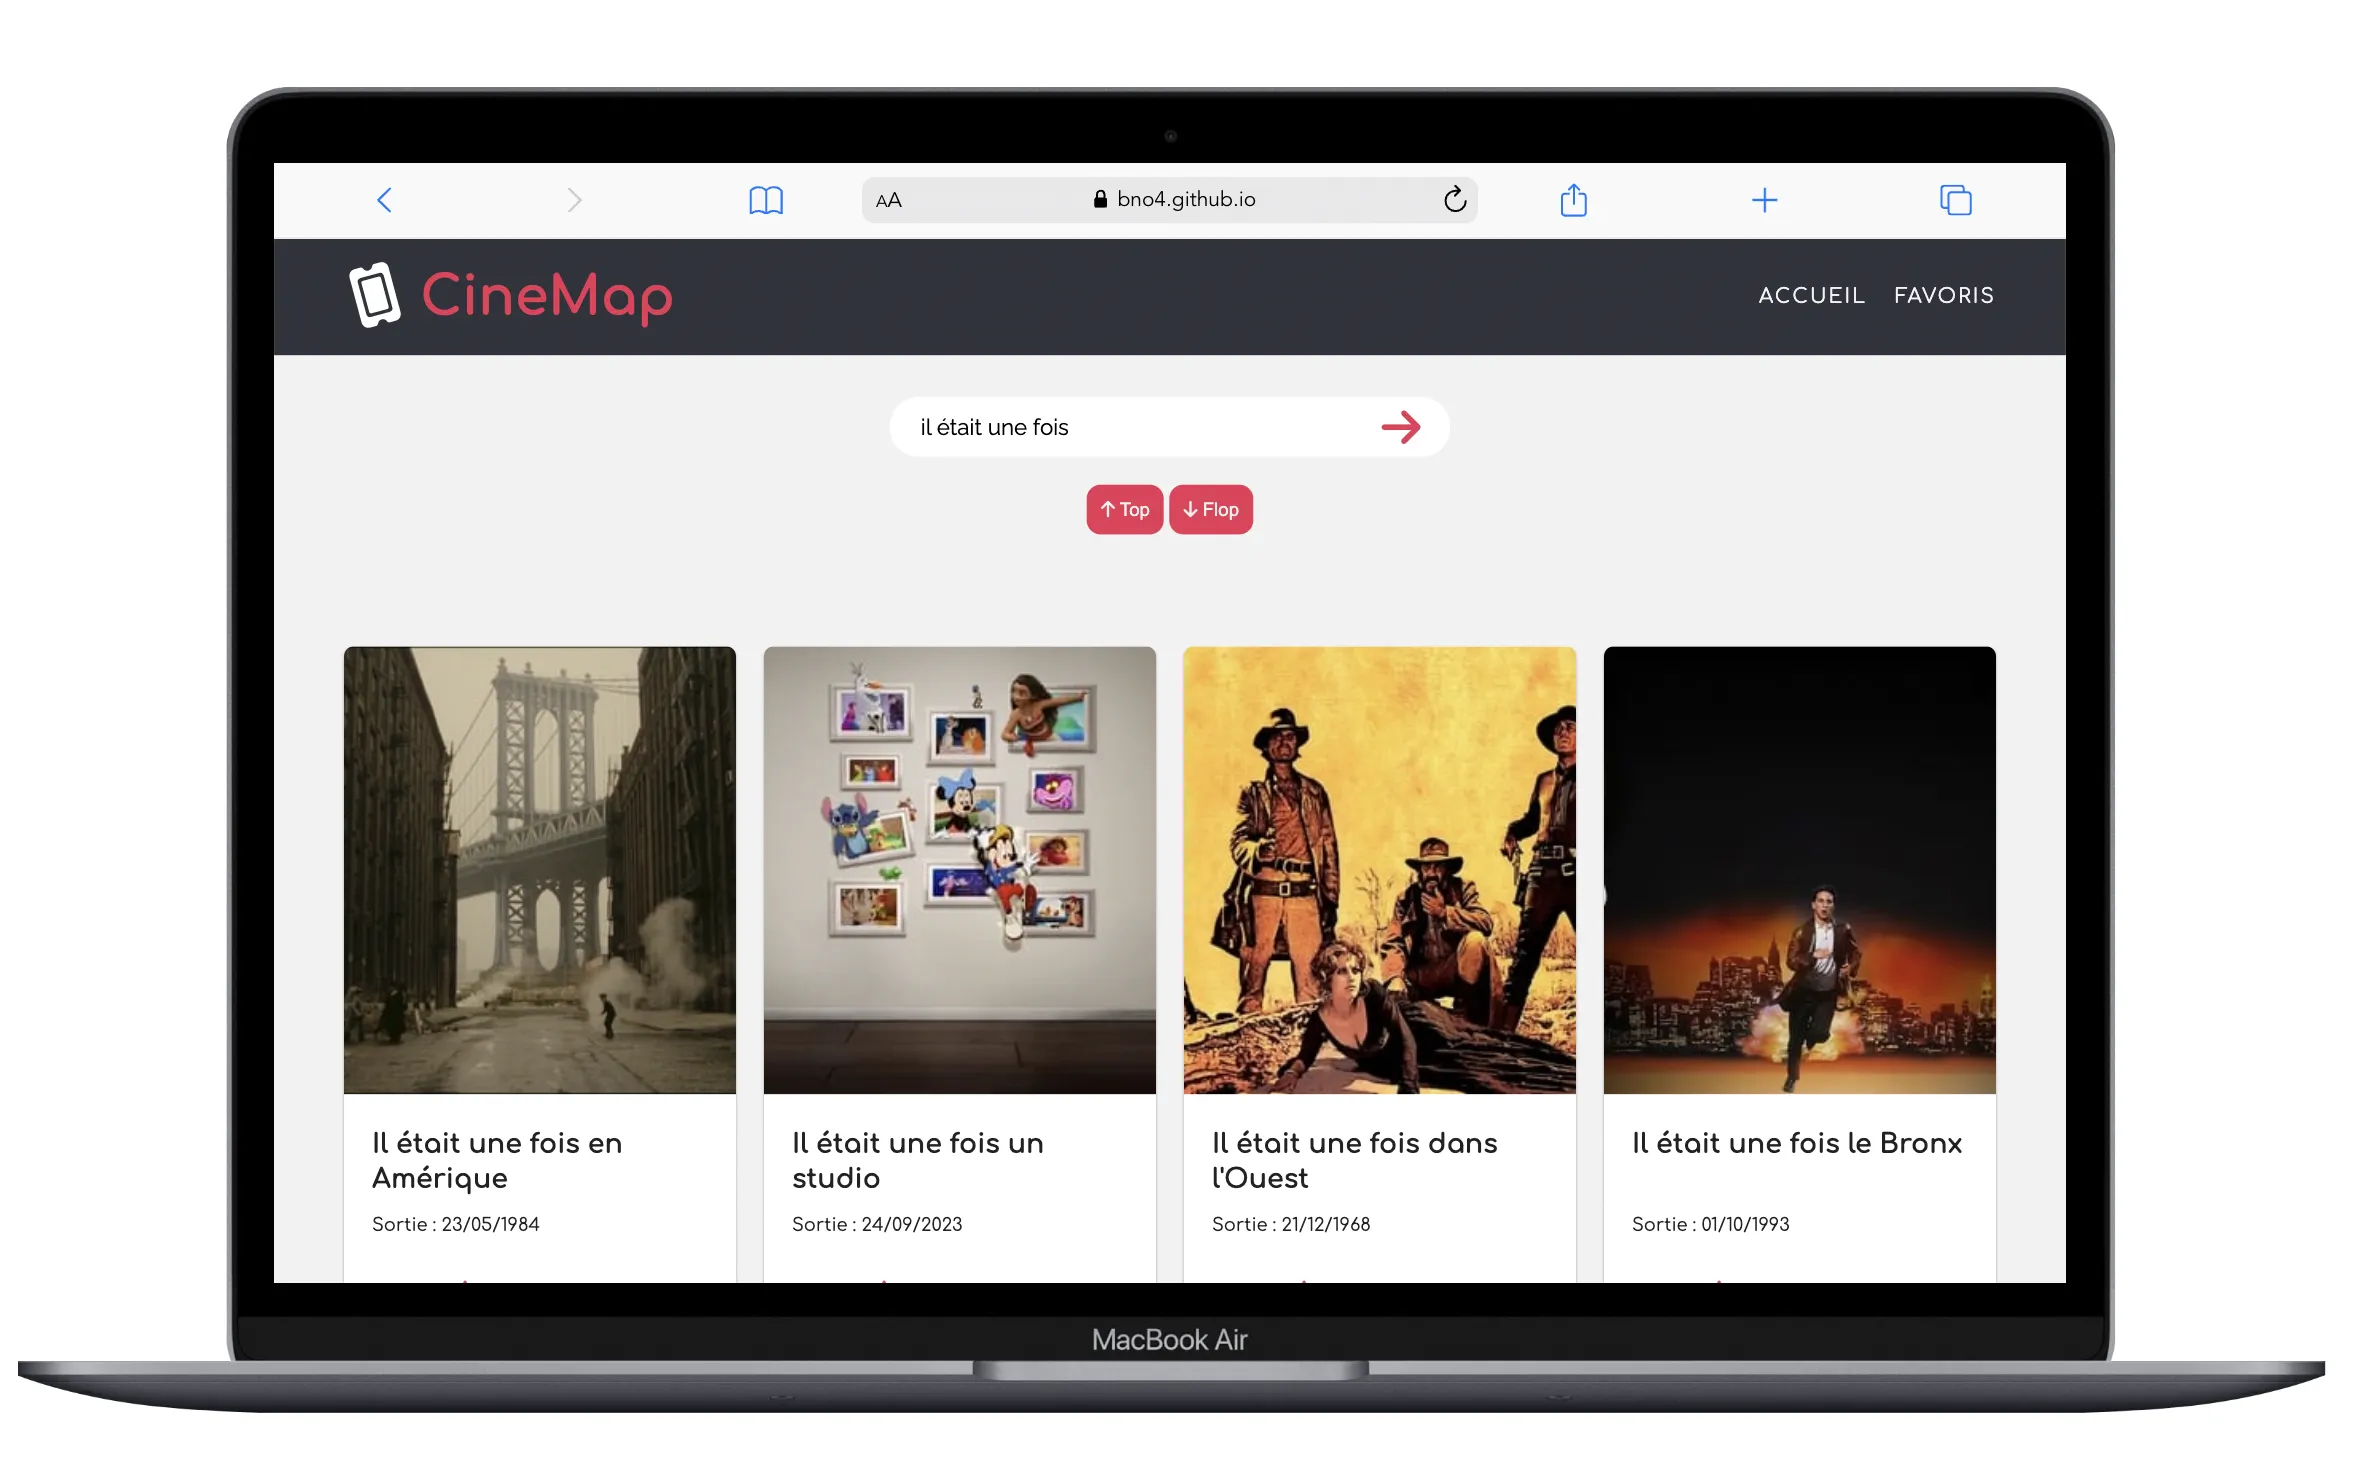
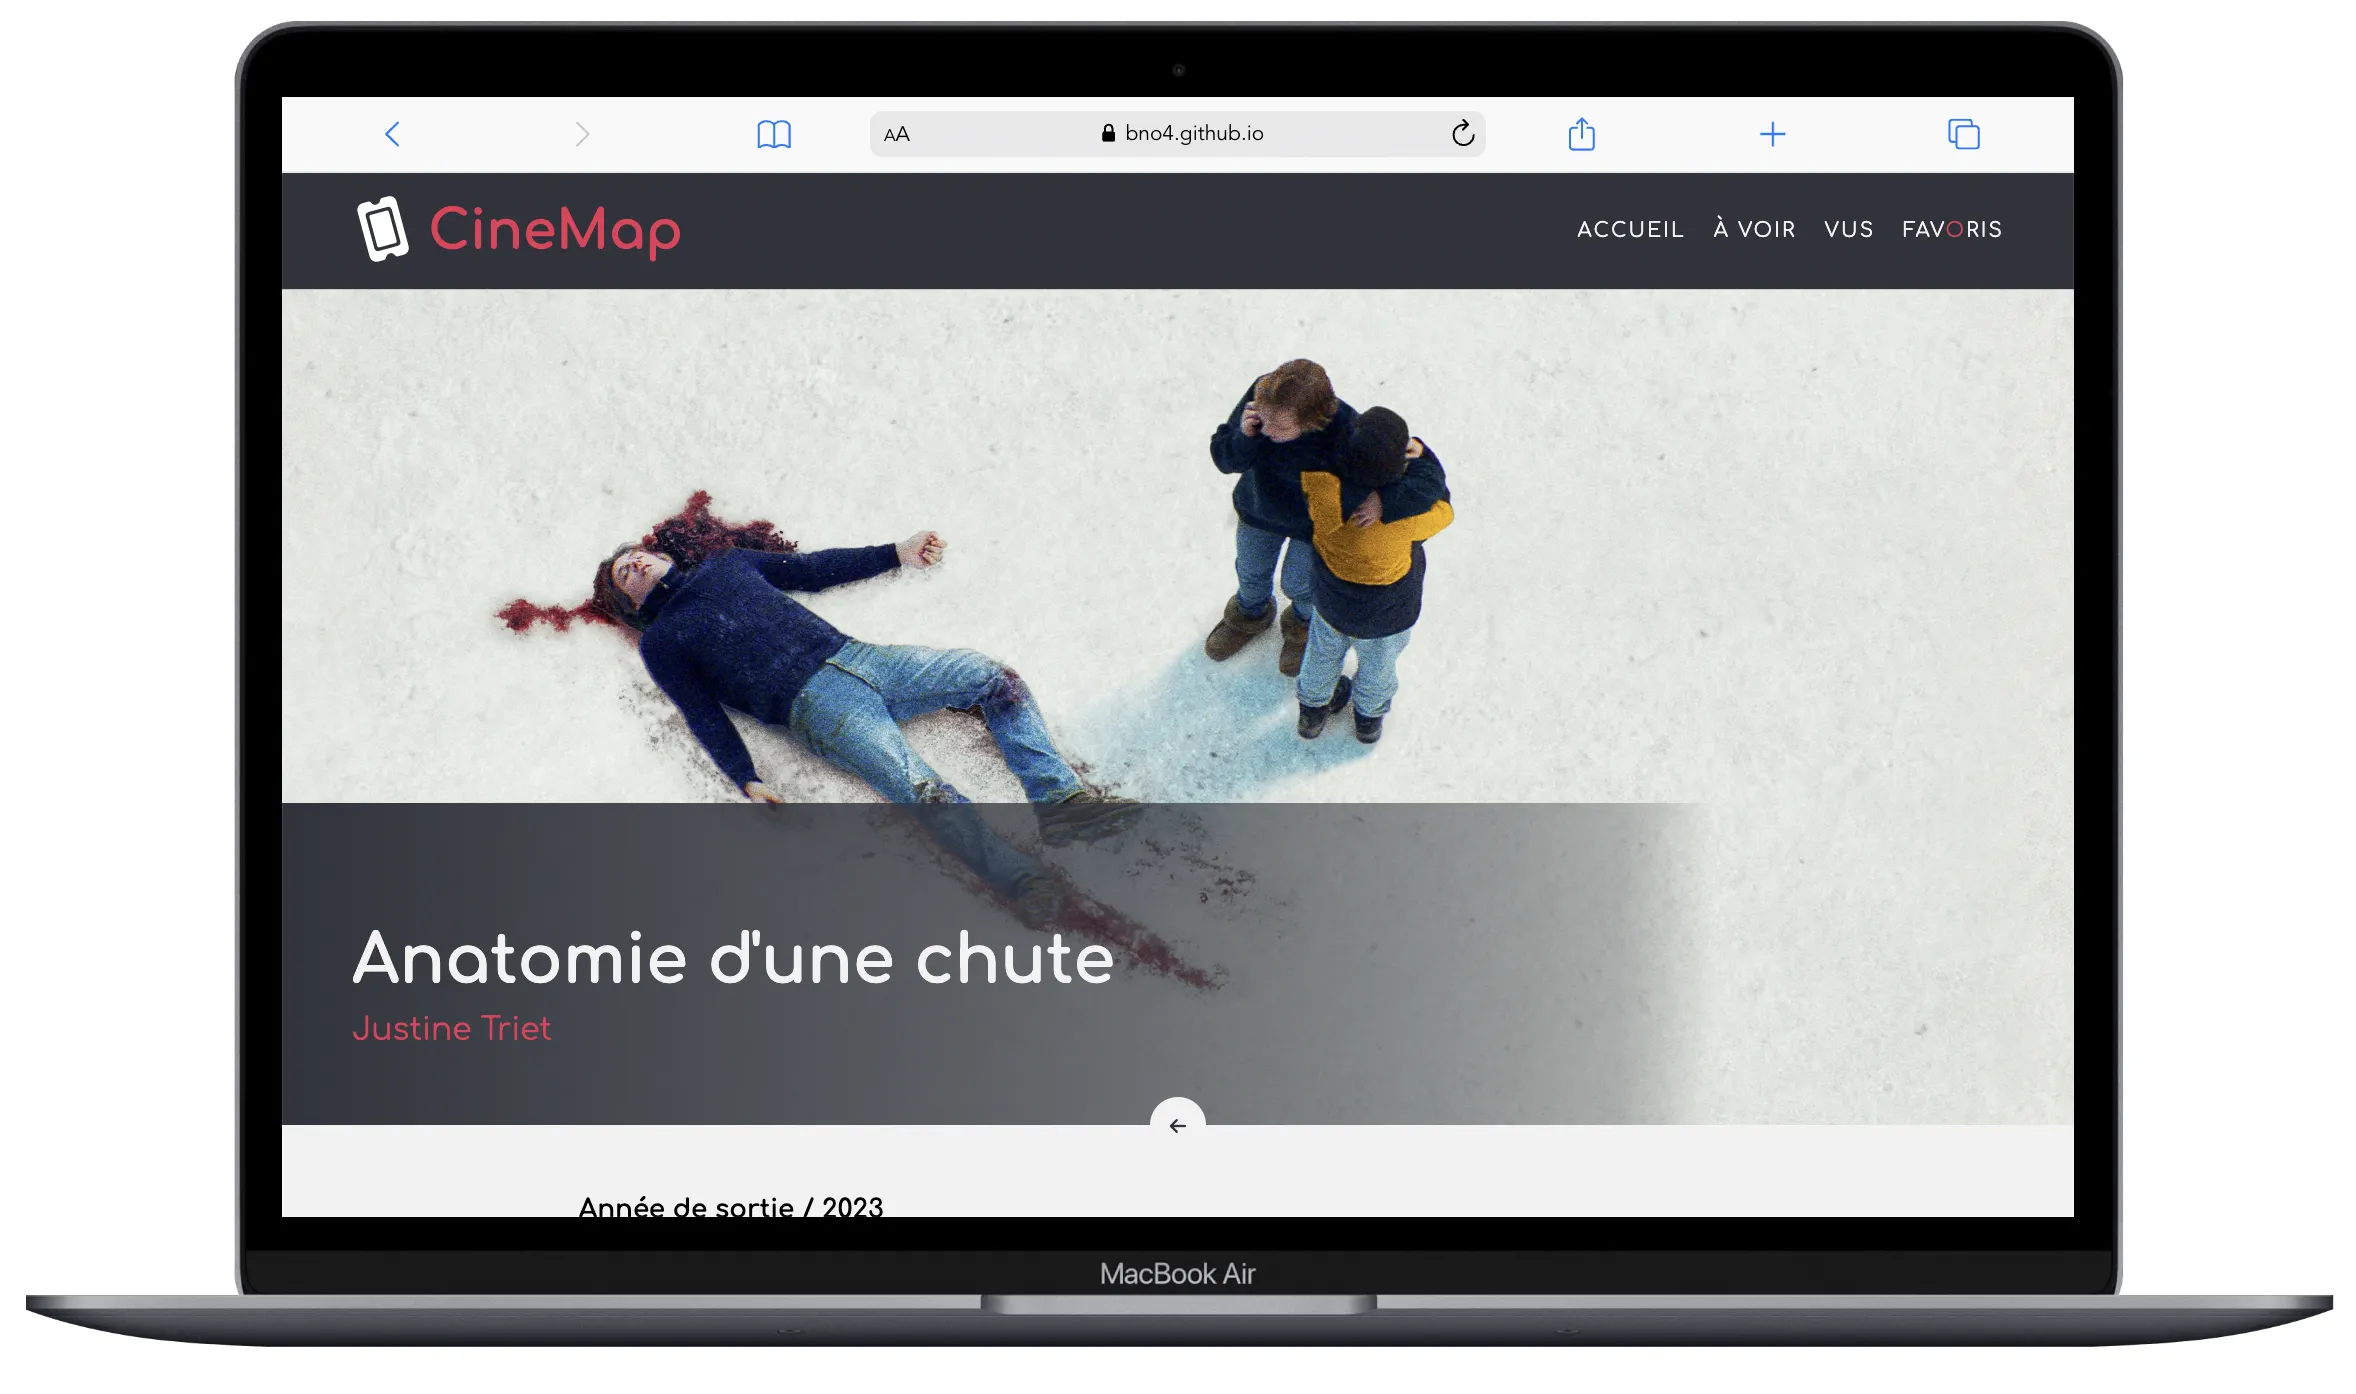
udpt img site cineMap

diff --git a/src/data/projectsData.js b/src/data/projectsData.js
@@ -52,7 +52,7 @@ export const projectsData = [
     infos_short:
       "Fetch de l'API gratuite de films TMDB. Mini site de recherche et de classement de films.",
     infos:
-      'Fetch de l\'API gratuite de films TMDB. Mini appli React de recherche de films, possibilité de classer les films par top et flop, et de les ajouter à une page "favoris" ou de les supprimer. Pas de maquette, design libre. Tout le style a été créé avec Sass. Mission proposée dans le cadre de la  formation mastering front-end de FromScratch',
+      'Fetch de l\'API gratuite de films TMDB. Mini appli React de recherche de films, possibilité de classer les films par top et flop, et de les ajouter à des rubriques "à voir", "vus", "favoris" ou de les supprimer. Pas de maquette, design libre. Utilisation des hooks useContext, useState, useEffect. Tout le style a été créé avec Sass. Mission proposée dans le cadre de la  formation mastering front-end de FromScratch',
     img: "./assets/img/cinemap_home.webp",
     img_phone: "./assets/img/movies_mobile_resultat.webp",
     img_mac: "./assets/img/movies_mac_resultat.webp",
